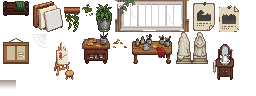
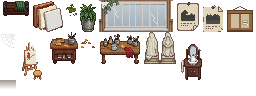
Gilded Vale Old Studio: glass in the window, and the game's own furniture
The user, 2026-11-07: the window's panes were holes onto the stone wall
behind, and the studio wanted vanilla furniture. The panes are dusty glass
now; the ivy bracket that read as a shelf is gone; a stopped grandfather
clock, Josh's hall table under the sketches, a bookcase, plants, and where
the painters sat a coffee table, armchair and pouf on one rug with a lamp; a
rug and a plant in the back room.

diff --git a/tools/build_vale_buildings.py b/tools/build_vale_buildings.py
@@ -457,18 +457,26 @@ BUILDINGS = {
         pieces=[
             # the back wall: the tall window (its light where the easel stands), the sketches
             # pinned up, the painting hung backward; ivy and cobwebs getting in
-            ("moss_wall", 2, 10), ("dusty_window", 4, 10), ("pinned_sketches", 10, 10),
+            ("dusty_window", 4, 10), ("pinned_sketches", 10, 10),
             ("backward_painting", 13, 10), ("cobweb", 20, 10), ("cobweb#2", 1, 10),
+            # the game's own furniture, left as it was (the user, 2026-11-07: "more vanilla
+            # furniture to liven up the place"): the clock that stopped, a hall table under
+            # the sketches, a bookcase, a plant by the door through
+            ("clock", 2, 12), ("hall_table", 10, 12), ("plant", 15, 12), ("bookcase", 19, 11),
             # in the window's light: the unfinished painting on its easel; the note on a little
             # table beside it; the old paint trestle; canvases left leaning
-            ("unfinished_easel", 5, 14), ("note_table", 9, 15), ("paint_trestle", 15, 14),
-            ("canvas_stack", 2, 16), ("sheeted_chair", 19, 15), ("sheeted_chair_b", 20, 17),
+            ("unfinished_easel", 5, 14), ("note_table", 9, 15), ("paint_trestle", 7, 17),
+            ("canvas_stack", 2, 16), ("sheeted_chair", 21, 15), ("sheeted_chair_b", 20, 17),
+            # where the painters sat: the coffee table, an armchair and a pouf on one rug, a lamp
+            ("rug", 14, 15, 6, 4), ("coffee_table", 15, 15), ("armchair_w", 18, 15), ("pouf", 14, 17),
+            ("floor_lamp", 20, 13), ("plant_b", 1, 17),
             ("fern_pot", 1, 13),
             # leaves blown in under the door, moss in the corners
             ("leaves", 11, 18), ("leaves#2", 13, 17), ("leaves#3", 14, 18), ("moss_patch", 1, 18),
             ("moss_patch#2", 21, 13), ("moss_patch#3", 4, 13),
             # the back room: the artist's cot, a washstand, a trunk, a small window
             ("washstand", 14, 2), ("window", 17, 1), ("bed", 19, 4), ("chest", 15, 7),
+            ("rug#2", 16, 5, 3, 3), ("plant", 21, 4),
             ("cobweb#3", 21, 1), ("leaves#4", 18, 7), ("moss_patch#4", 14, 4),
         ],
         describe={"unfinished_easel": "unfinished", "note_table": "note", "pinned_sketches": "sketches",

diff --git a/tools/art/vale_studio_art.py b/tools/art/vale_studio_art.py
@@ -36,6 +36,21 @@ def dusty_window():
         for x in range(im.width):
             if px[x, y][3]:
                 px[x, y] = grey(px[x, y], 0.55)
+    # the panes: glass, not holes (the user, 2026-11-07: "the glass has bricks behind it").
+    # Whatever's transparent and not reachable from the picture's edge is inside the frame.
+    outside, todo = set(), [(x, y) for x in range(im.width) for y in (0, im.height - 1)] +                            [(x, y) for y in range(im.height) for x in (0, im.width - 1)]
+    while todo:
+        x, y = todo.pop()
+        if (x, y) in outside or not (0 <= x < im.width and 0 <= y < im.height) or px[x, y][3] > 40:
+            continue
+        outside.add((x, y))
+        todo += [(x + 1, y), (x - 1, y), (x, y + 1), (x, y - 1)]
+    top = im.getbbox()[1]
+    for y in range(im.height):
+        for x in range(im.width):
+            if px[x, y][3] <= 40 and (x, y) not in outside:
+                t = (y - top) / max(1, im.height - top)
+                px[x, y] = (int(196 - 40 * t), int(206 - 36 * t), int(212 - 30 * t), 255)   # grey daylight, dimmer low
     d = ImageDraw.Draw(im)
     box = im.getbbox()
     # two cracked panes: a jagged pale line each
